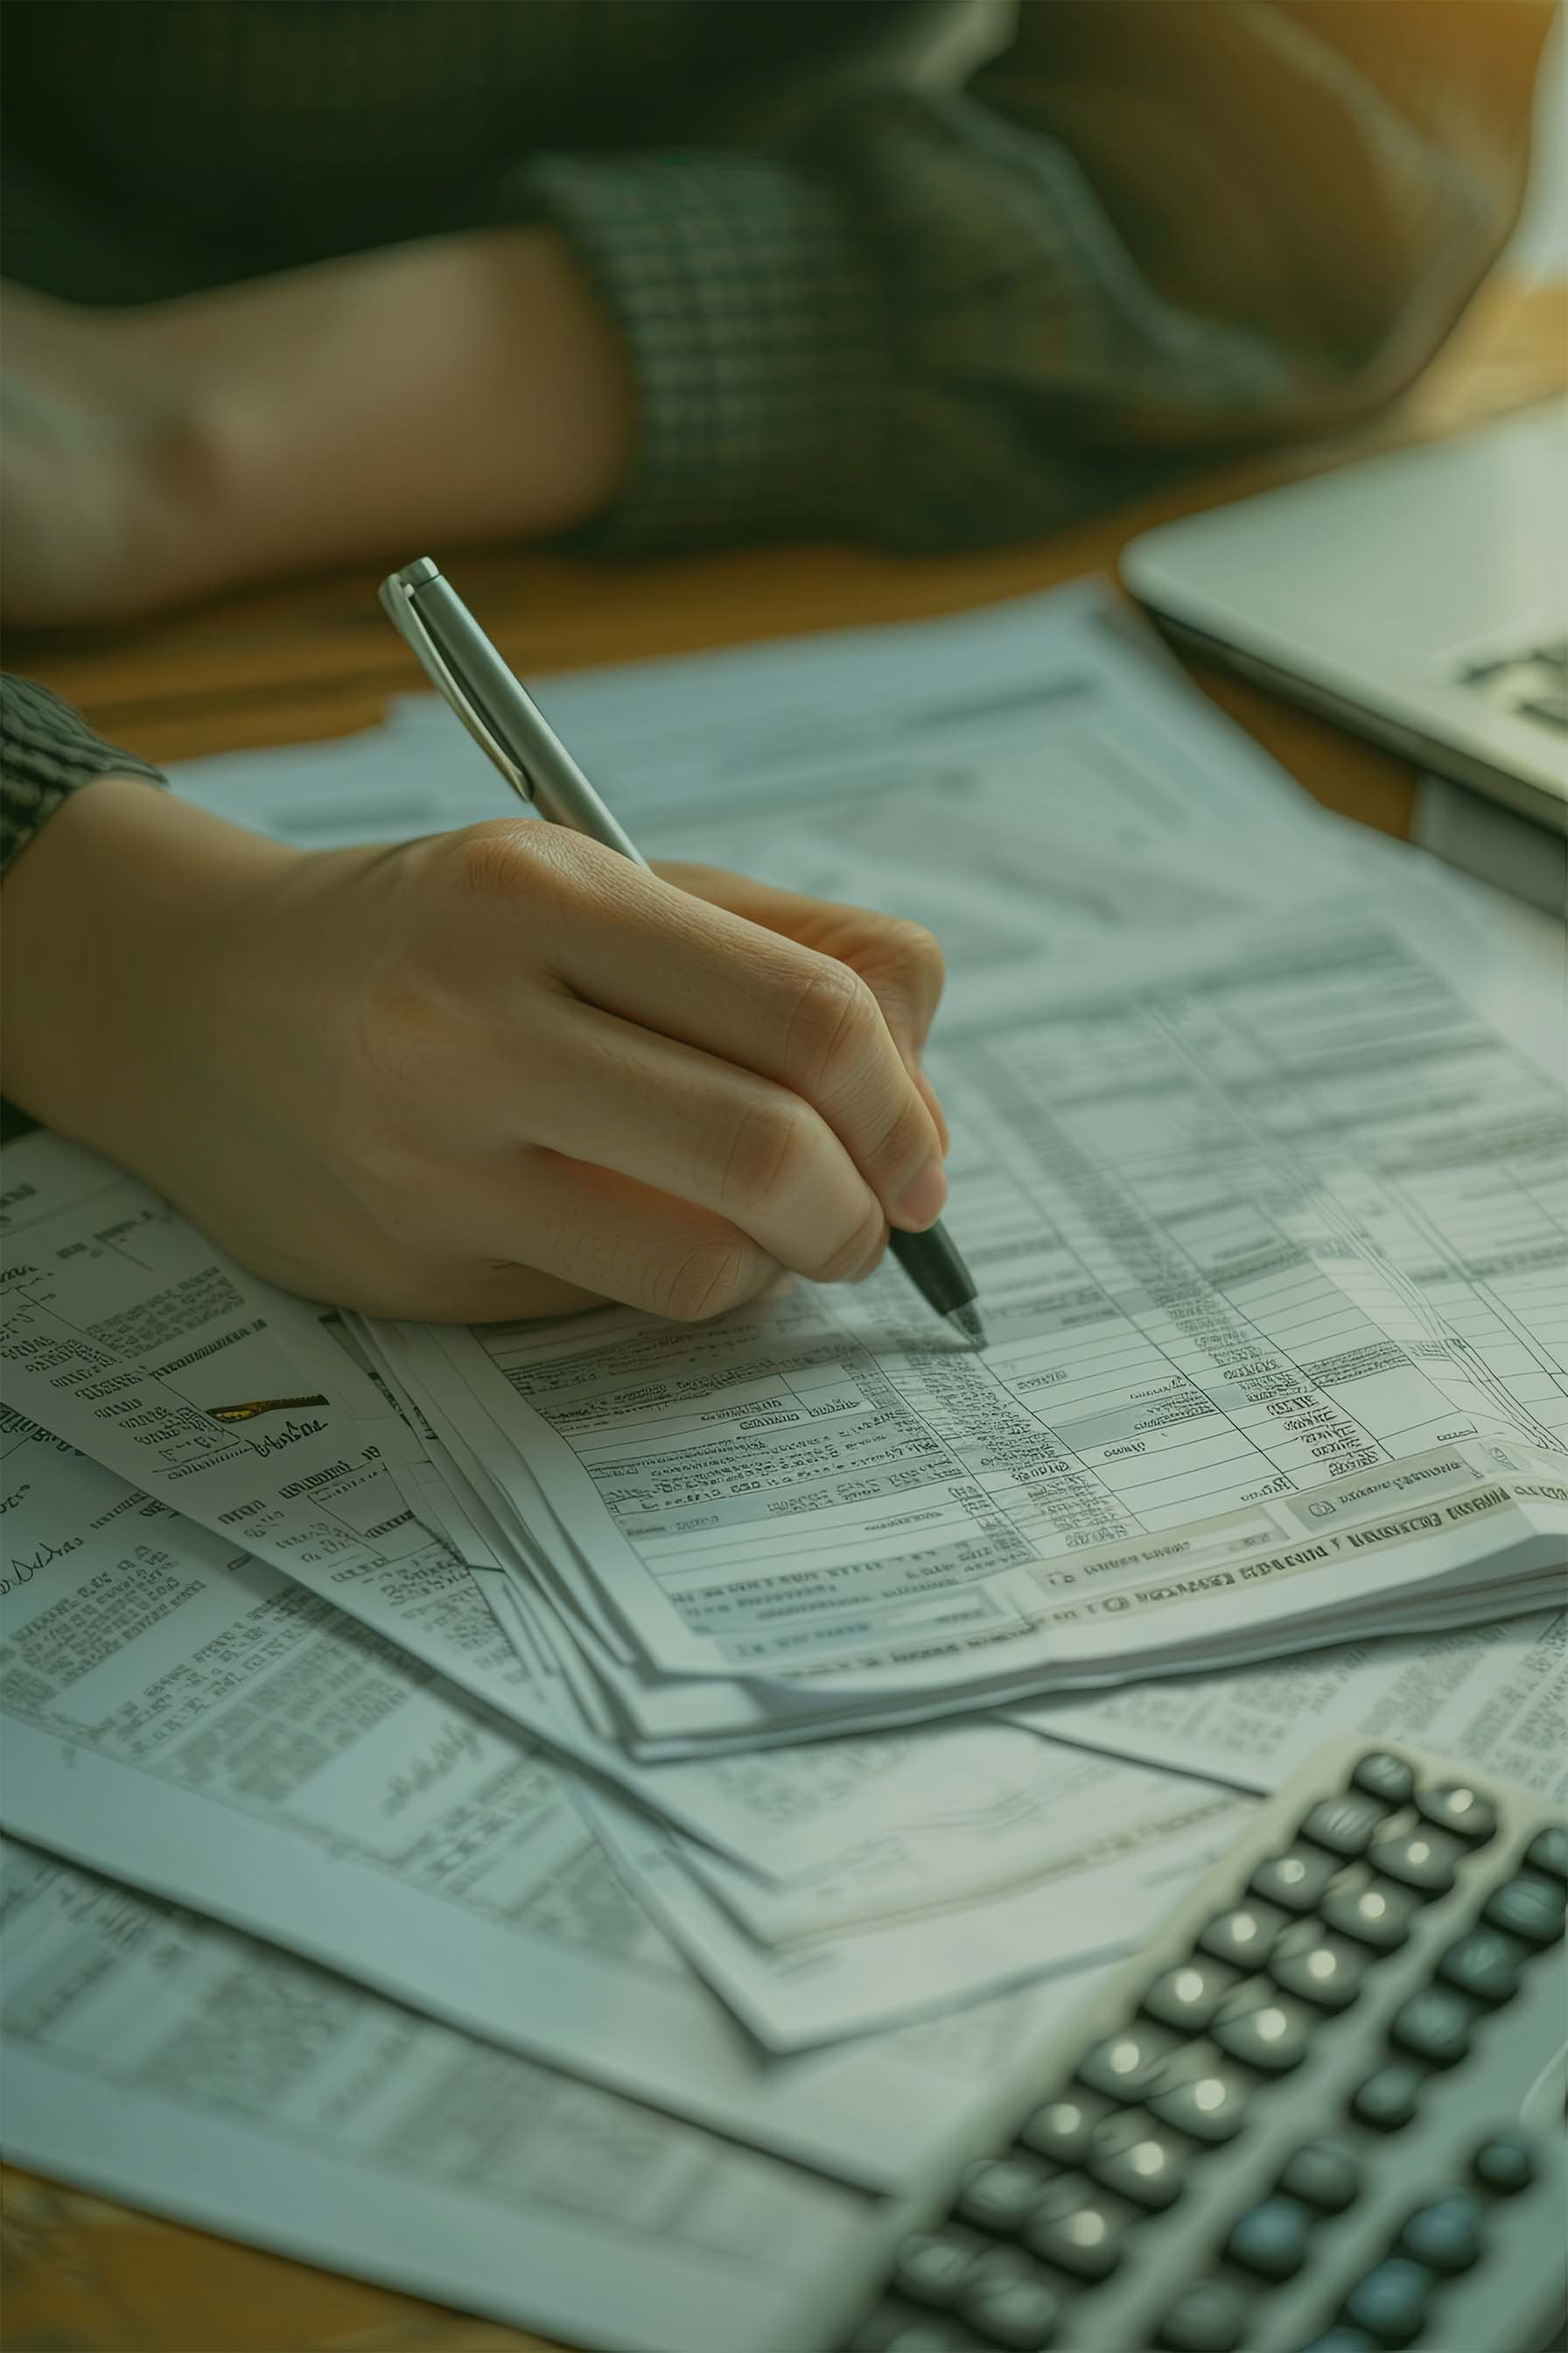
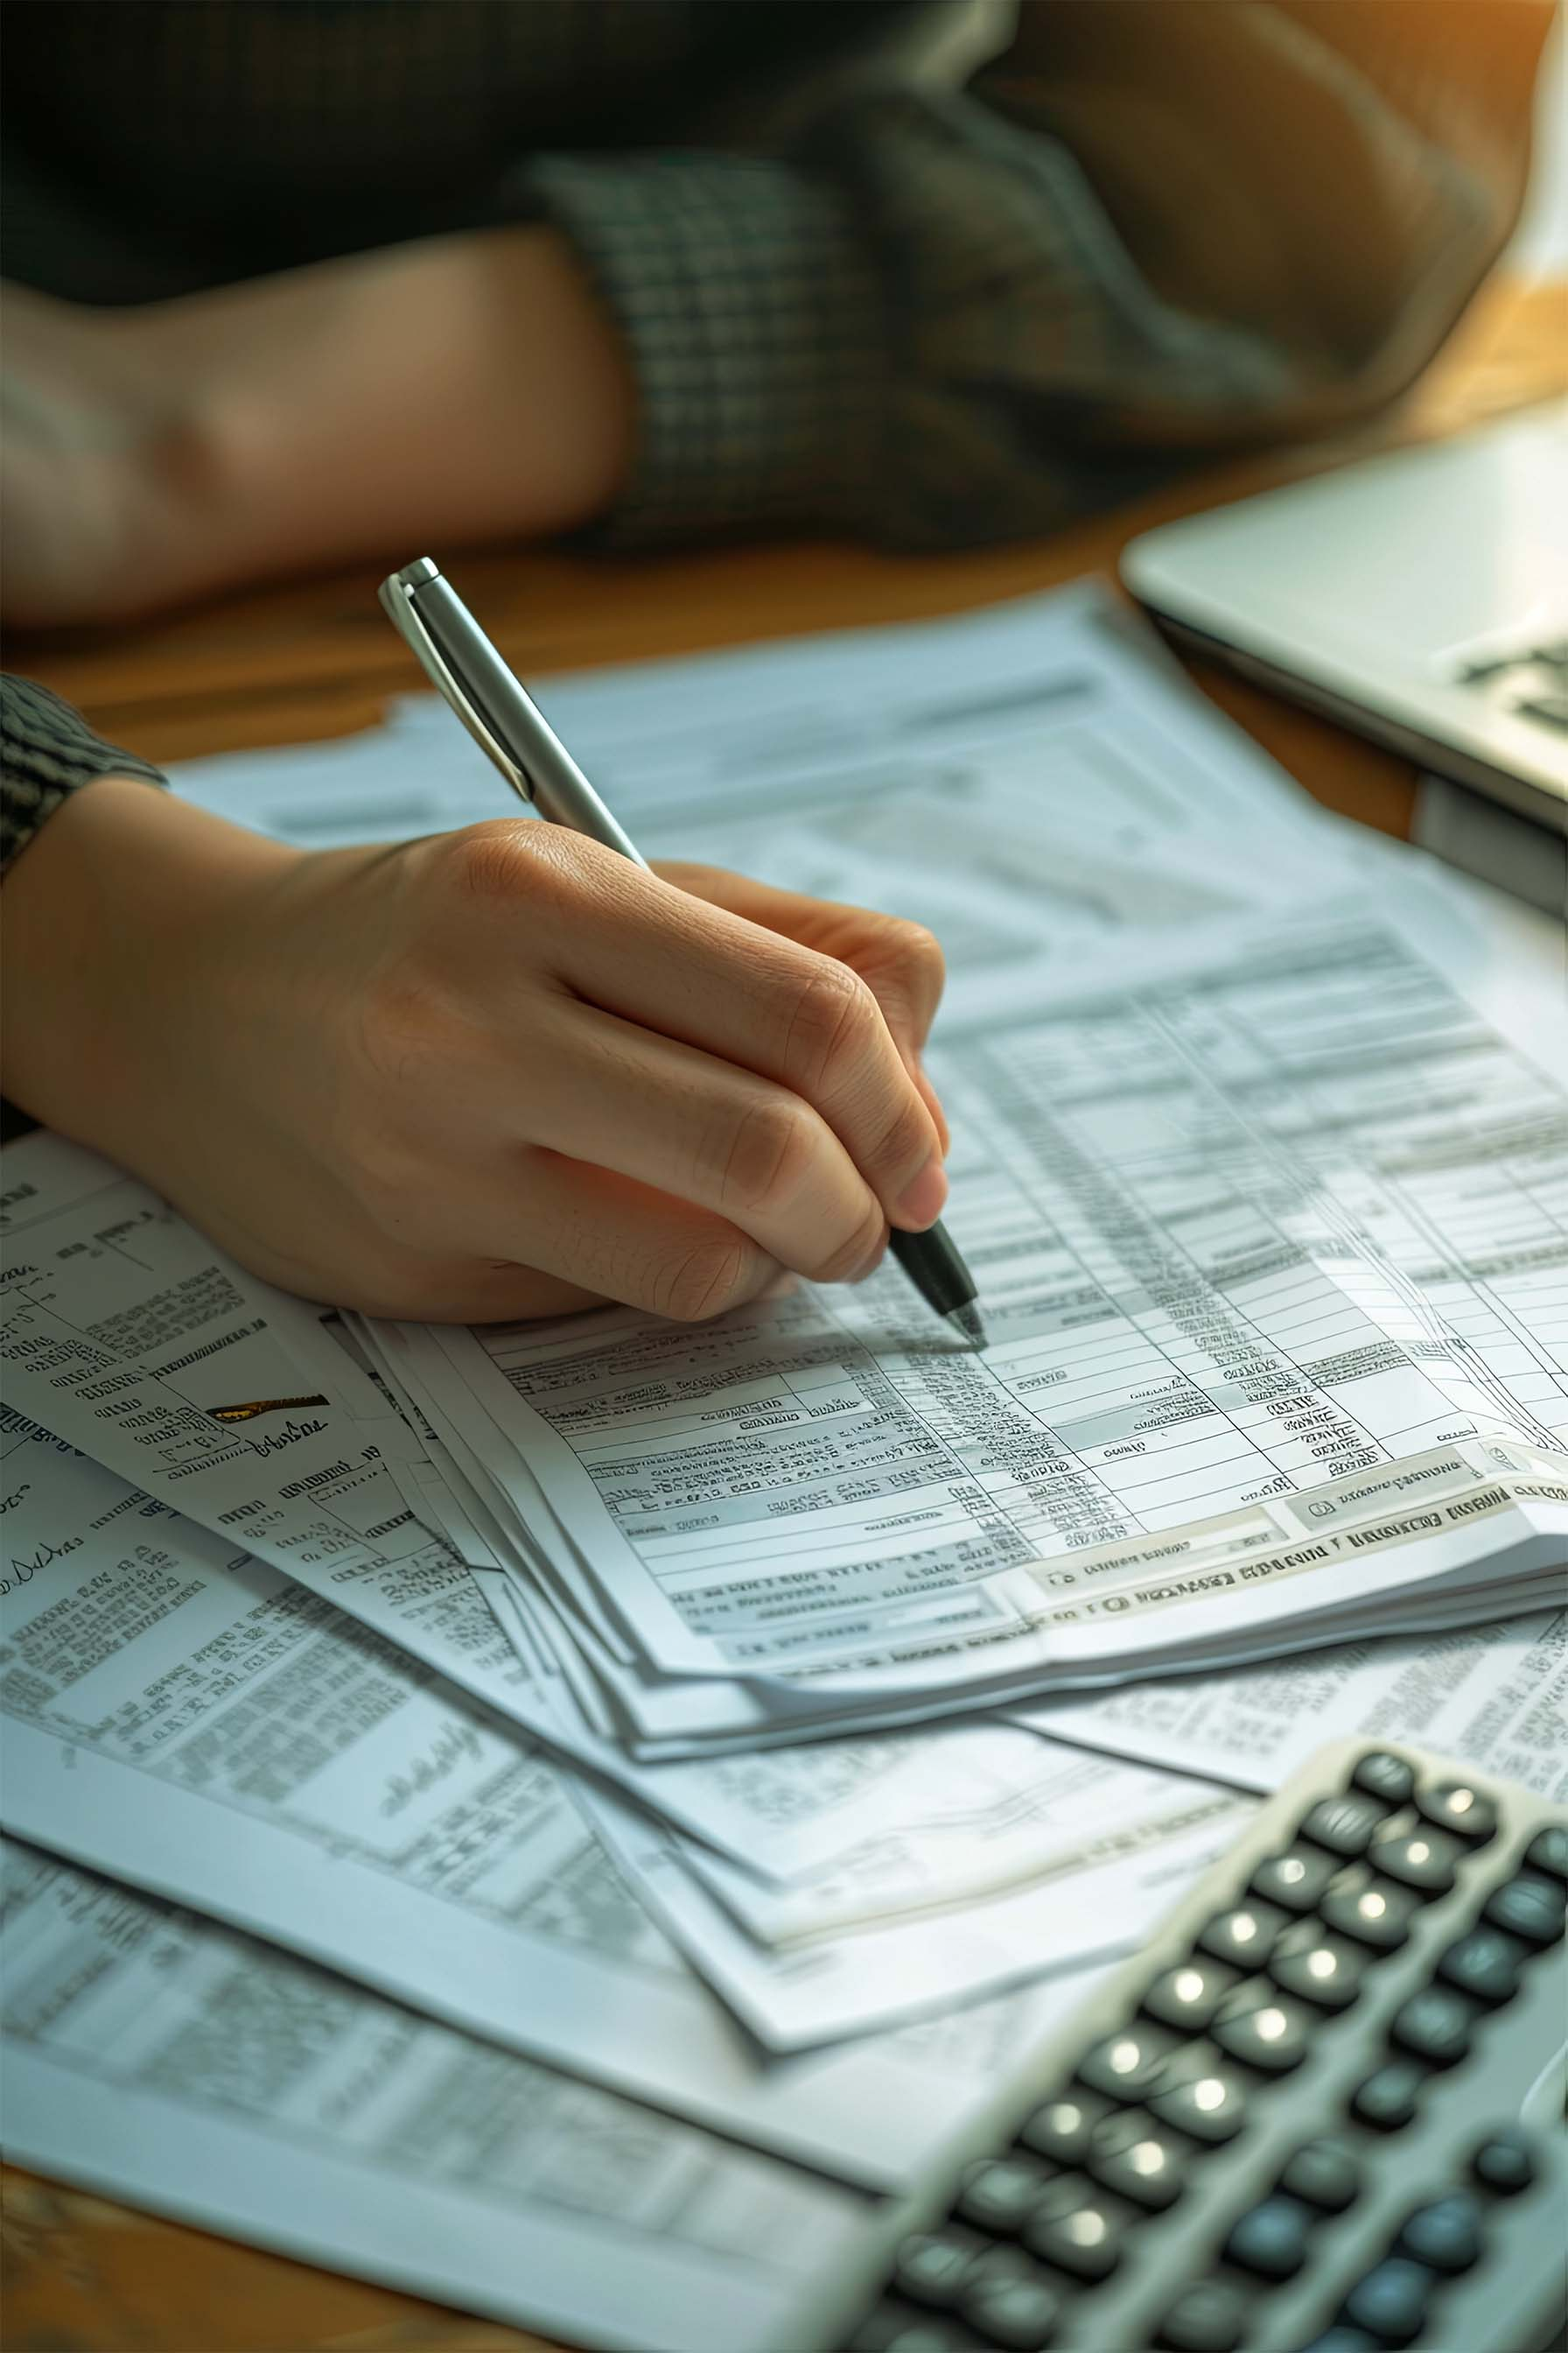
new pic

diff --git a/app/(root)/page.tsx b/app/(root)/page.tsx
@@ -11,7 +11,7 @@ import icon3 from "@/public/icon3.png";
 import icon from "@/public/fth-logo-icon-new.png";
 import heroBG from "@/public/bg.jpg";
 import aboutBG from "@/public/about-bg2.jpg";
-import whyBG from "@/public/taxform.jpeg";
+import whyBG from "@/public/taxform.jpg";
 
 export default function Home() {
   // Create reference to store the DOM element containing the animation
@@ -136,7 +136,7 @@ export default function Home() {
         <div className="top-big-square">
           <div
             className="box-pic"
-            // style={{ backgroundImage: `url(${whyBG.src})` }}
+            style={{ backgroundImage: `url(${whyBG.src})` }}
           ></div>
           <div className="square">
             <div className="cont">

diff --git a/app/globals.css b/app/globals.css
@@ -334,13 +334,13 @@ a {
 .top-big-square .box-pic {
   width: 33%;
   height: 100%;
-  background: linear-gradient(
+  /* background: linear-gradient(
       0deg,
       rgba(144, 216, 185, 0.3),
       rgba(158, 218, 185, 0.287)
     ),
     url(../public/taxform.jpg);
-  background-image: url("../public/taxform.jpg");
+  background-image: url("../public/taxform.jpg"); */
   background-size: cover;
   background-position: center;
   border: solid 3px #0a1763;
